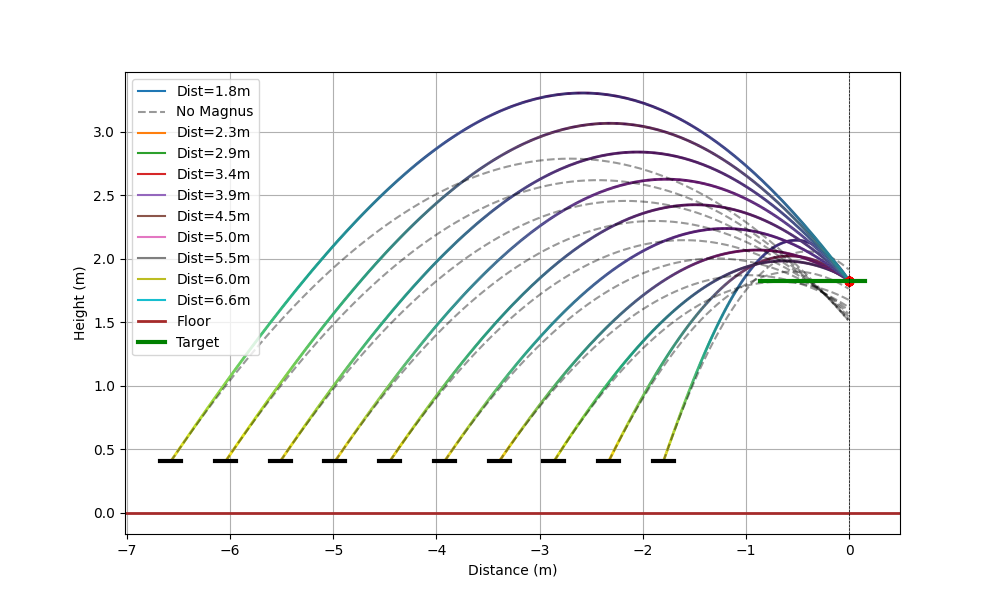
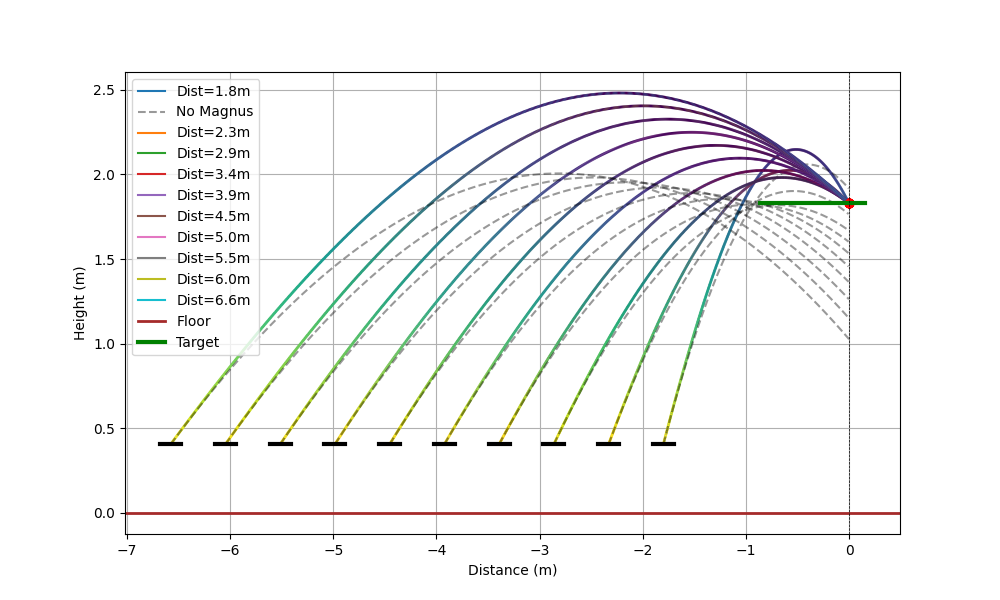
Spin unjam and changed shot characteristics

diff --git a/src/main/java/frc/robot/subsystems/spindexer/SpindexerIOReal.java b/src/main/java/frc/robot/subsystems/spindexer/SpindexerIOReal.java
@@ -8,6 +8,7 @@ import com.revrobotics.PersistMode;
 import com.revrobotics.ResetMode;
 import com.revrobotics.spark.SparkLowLevel.MotorType;
 import com.revrobotics.spark.SparkMax;
+import com.revrobotics.spark.SparkBase.ControlType;
 import com.revrobotics.spark.SparkFlex;
 import com.revrobotics.spark.config.SparkBaseConfig.IdleMode;
 
@@ -35,7 +36,7 @@ public class SpindexerIOReal implements SpindexerIO {
         spinnerConfig
             .encoder
             .positionConversionFactor(2.0 * Math.PI / spinnerMotorReduction) // Rotor Rotations -> Radians
-            .velocityConversionFactor((2.0 * Math.PI) / 60.0 / spinnerCurrentLimit)
+            .velocityConversionFactor((2.0 * Math.PI) / 60.0 / spinnerMotorReduction)
             .uvwMeasurementPeriod(10)
             .uvwAverageDepth(2);
         spinnerConfig.inverted(true);
@@ -46,7 +47,7 @@ public class SpindexerIOReal implements SpindexerIO {
         tranferConfig
             .encoder
             .positionConversionFactor(2.0 * Math.PI / transferMotorReduction) // Rotor Rotations -> Radians
-            .velocityConversionFactor((2.0 * Math.PI) / 60.0 / transferCurrentLimit)
+            .velocityConversionFactor((2.0 * Math.PI) / 60.0 / transferMotorReduction)
             .uvwMeasurementPeriod(10)
             .uvwAverageDepth(2);
 
@@ -71,12 +72,12 @@ public class SpindexerIOReal implements SpindexerIO {
     }
   
     @Override
-    public void setSpinnerVoltage(double voltage) {
-        spinnerMotor.setVoltage(voltage);
+    public void setSpinnerPower(double power) {
+        spinnerMotor.getClosedLoopController().setSetpoint(power, ControlType.kDutyCycle);
     }
 
     @Override
-    public void setTransferVoltage(double voltage) {
-        transferMotor.setVoltage(voltage);
+    public void setTransferPower(double power) {
+        transferMotor.getClosedLoopController().setSetpoint(power, ControlType.kDutyCycle);
     }
 }

diff --git a/src/main/java/frc/robot/subsystems/spindexer/Spindexer.java b/src/main/java/frc/robot/subsystems/spindexer/Spindexer.java
@@ -1,9 +1,11 @@
 package frc.robot.subsystems.spindexer;
 
+import edu.wpi.first.math.filter.Debouncer.DebounceType;
 import edu.wpi.first.wpilibj.Alert;
 import edu.wpi.first.wpilibj.Alert.AlertType;
 import edu.wpi.first.wpilibj2.command.Command;
 import edu.wpi.first.wpilibj2.command.SubsystemBase;
+import edu.wpi.first.wpilibj2.command.button.Trigger;
 
 import java.util.function.BooleanSupplier;
 import java.util.function.DoubleSupplier;
@@ -20,6 +22,10 @@ public class Spindexer extends SubsystemBase {
 
     public Spindexer(SpindexerIO io) {
         this.io = io;
+
+        new Trigger(() -> inputs.spinner.motorCurrentAmps() > SpindexerConstants.spinnerCurrentLimit - 5)
+            .debounce(0.2, DebounceType.kRising)
+            .onTrue(runPercent(() -> -0.5, () -> -0.1).withTimeout(0.25).withName("SpinUnjam"));
     }
 
     @AutoLogOutput(key = "Spindexer/BallsPerSecond")
@@ -49,14 +55,16 @@ public class Spindexer extends SubsystemBase {
 
     public Command runPercent(DoubleSupplier spinPercent, DoubleSupplier transferPercent) {
         return runEnd(() -> {
-            setPower(spinPercent.getAsDouble(), transferPercent.getAsDouble());
+            double spin = spinPercent.getAsDouble();
+            if(spin > 0 && Math.abs(inputs.transfer.velocityRadPerSec()) < 1) spin = 0;
+            setPower(spin, transferPercent.getAsDouble());
         }, () -> {
             setPower(0.0, 0.0);
         });
     }
 
     public void setPower(double spinPercent, double transferPercent) {
-        io.setSpinnerVoltage(spinPercent * 12.0);
-        io.setTransferVoltage(transferPercent * 12.0);
+        io.setSpinnerPower(spinPercent);
+        io.setTransferPower(transferPercent);
     }
 }

diff --git a/src/main/java/frc/robot/subsystems/spindexer/SpindexerConstants.java b/src/main/java/frc/robot/subsystems/spindexer/SpindexerConstants.java
@@ -9,10 +9,10 @@ public class SpindexerConstants {
     public static final int spinnerCanId = 41;
 
     public static final double spinnerMotorReduction = 3.0;
-    public static final double transferMotorReduction = GearRatios.UltraPlanetary.three * GearRatios.UltraPlanetary.four;
+    public static final double transferMotorReduction = GearRatios.UltraPlanetary.five;
 
     public static final int spinnerCurrentLimit = 40;
-    public static final int transferCurrentLimit = 30;
+    public static final int transferCurrentLimit = 35;
 
     public static final int ballsInSpin = 5;
 

diff --git a/src/main/java/frc/robot/subsystems/spindexer/SpindexerIO.java b/src/main/java/frc/robot/subsystems/spindexer/SpindexerIO.java
@@ -29,6 +29,6 @@ public interface SpindexerIO {
     /** Update the set of loggable inputs. */
     public default void updateInputs(SpindexerIOInputs inputs) {}
     
-    public default void setSpinnerVoltage(double volts) {}
-    public default void setTransferVoltage(double volts) {}
+    public default void setSpinnerPower(double percent) {}
+    public default void setTransferPower(double percent) {}
 }

diff --git a/src/main/java/frc/robot/subsystems/spindexer/SpindexerIOSim.java b/src/main/java/frc/robot/subsystems/spindexer/SpindexerIOSim.java
@@ -28,12 +28,12 @@ public class SpindexerIOSim implements SpindexerIO {
     }
 
     @Override
-    public void setSpinnerVoltage(double volts) {
+    public void setSpinnerPower(double volts) {
         spinnerVoltage = volts;
     }
 
     @Override
-    public void setTransferVoltage(double volts) {
+    public void setTransferPower(double volts) {
         transportVoltage = volts;
     }
 

diff --git a/misc/shotSim/shotSimulator.py b/misc/shotSim/shotSimulator.py
@@ -196,7 +196,7 @@ def simulate_and_save(
             args=(d, target_height, extra_cost),
             bounds=[
                 (0.1, 15.0), # Velocity bounds
-                (np.radians(20), np.radians(45)) # Hood angle bounds
+                (np.radians(24), np.radians(60)) # Hood angle bounds
             ],
             method="SLSQP"
         )

diff --git a/src/main/java/frc/robot/util/ShiftHelpers.java b/src/main/java/frc/robot/util/ShiftHelpers.java
@@ -9,6 +9,8 @@ import edu.wpi.first.wpilibj.Timer;
 import edu.wpi.first.wpilibj2.command.Commands;
 import edu.wpi.first.wpilibj2.command.button.RobotModeTriggers;
 
+// TODO: fix FMS running slow (???)
+
 public class ShiftHelpers {
     private static ShiftHelpers instance;
     public static ShiftHelpers getInstance() {

diff --git a/README.md b/README.md
@@ -4,10 +4,10 @@ The code for 2826 Wave Robotics' 2025 Rebuilt robot.
 
 [Chief Delphi Open Alliance Thread](https://www.chiefdelphi.com/t/frc-2826-wave-robotics-2026-open-alliance-build-thread/508460/19)
 
-Features (probably):
+Features:
 - Triple coaxial turret
 - Automatic passing and scoring
 - Reliable full-field localization using PhotonVision
 - Advanced logging with AdvantageKit
-- Full field simulation with maple-sim
+- Full field and robot simulation
 - Autonomous vision-based piece acquisition using a custom AI model
